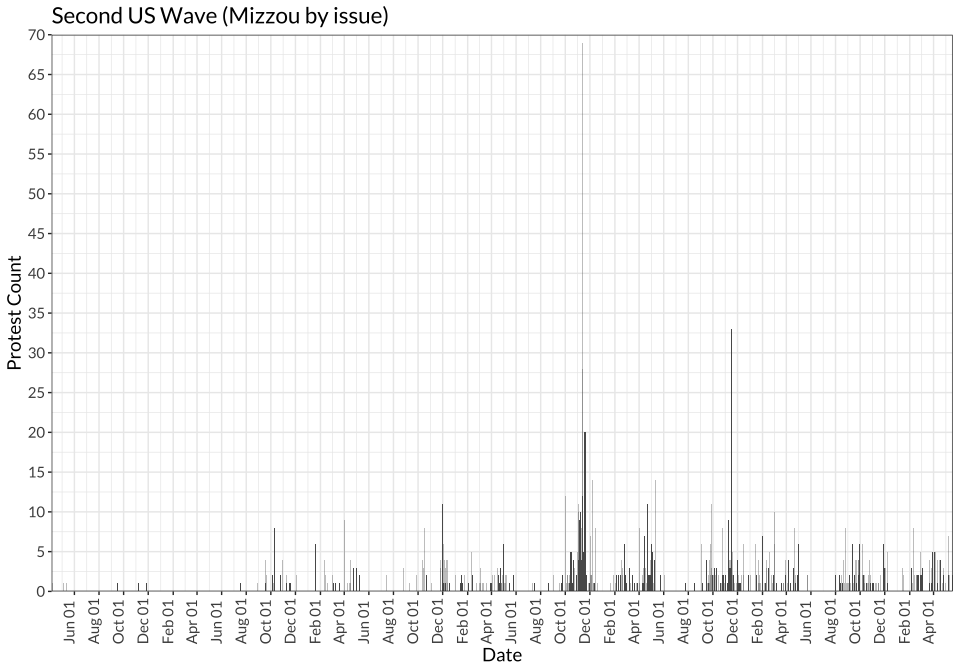
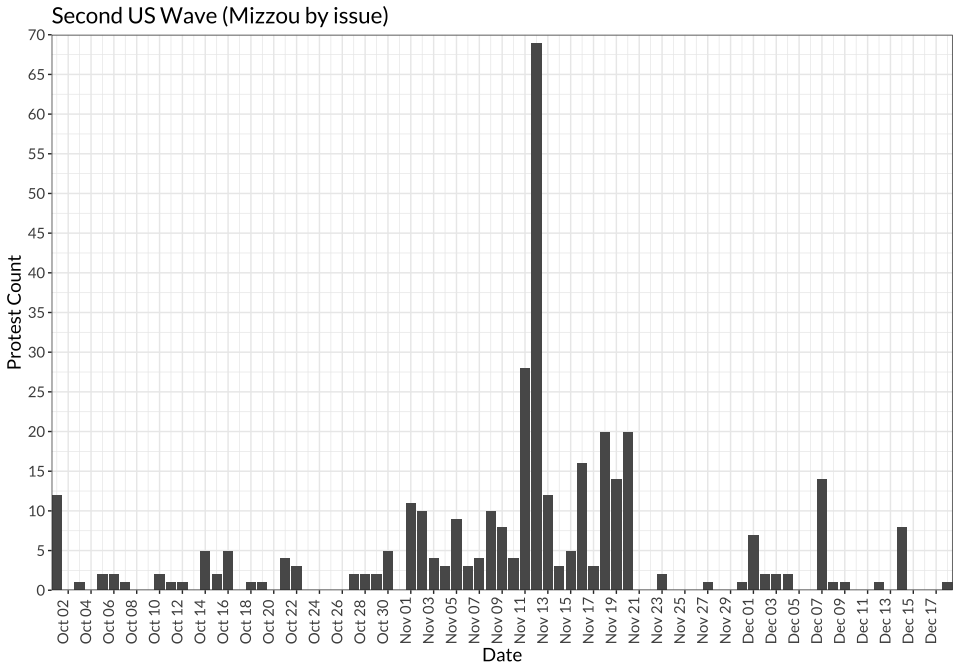
mizzou waves added

diff --git a/docs/trends-paper/trends.md b/docs/trends-paper/trends.md
@@ -200,18 +200,20 @@ Tables and Figures for *Trends in Higher Ed Protest*
 
 ![](trends_files/figure-gfm/unnamed-chunk-15-1.png)<!-- -->
 
+![](trends_files/figure-gfm/unnamed-chunk-16-1.png)<!-- -->
+
 #### Second Wave Summary
 
 | wave                    | criteria                                                           | n_protests |
 |:------------------------|:-------------------------------------------------------------------|-----------:|
 | Second US Wave (Mizzou) | Mizzou umbrella                                                    |        125 |
-| Second US Wave (Mizzou) | racial_issue == Univ governance… OR racial_issue == Campus climate |       1239 |
+| Second US Wave (Mizzou) | racial_issue == Univ governance… OR racial_issue == Campus climate |        353 |
 
 ## Third Wave - Trump
 
-![](trends_files/figure-gfm/unnamed-chunk-17-1.png)<!-- -->
-
 ![](trends_files/figure-gfm/unnamed-chunk-18-1.png)<!-- -->
+
+![](trends_files/figure-gfm/unnamed-chunk-19-1.png)<!-- -->
 
 ## US Waves Summary
 
@@ -230,7 +232,7 @@ Tables and Figures for *Trends in Higher Ed Protest*
 | First Canada Wave (Quebec 2012) | year = 2012 AND location = QC AND issue = “Tuition” |        164 |
 | First Canada Wave (Quebec 2012) | Quebec Police Violence Protests in 2012             |         10 |
 
-![](trends_files/figure-gfm/unnamed-chunk-22-1.png)<!-- -->
+![](trends_files/figure-gfm/unnamed-chunk-23-1.png)<!-- -->
 
 ## Second Wave - Toronto Labor
 
@@ -240,7 +242,7 @@ Tables and Figures for *Trends in Higher Ed Protest*
 | Second Canada Wave (Labor) | Quebec Labor Protests 2014/2015              |         12 |
 | Second Canada Wave (Labor) | Quebec Economy/inequality Protests 2014/2015 |         47 |
 
-![](trends_files/figure-gfm/unnamed-chunk-24-1.png)<!-- --> \## Canada
+![](trends_files/figure-gfm/unnamed-chunk-25-1.png)<!-- --> \## Canada
 Waves Summary
 
 | wave        | criteria                                            | n_protests |
